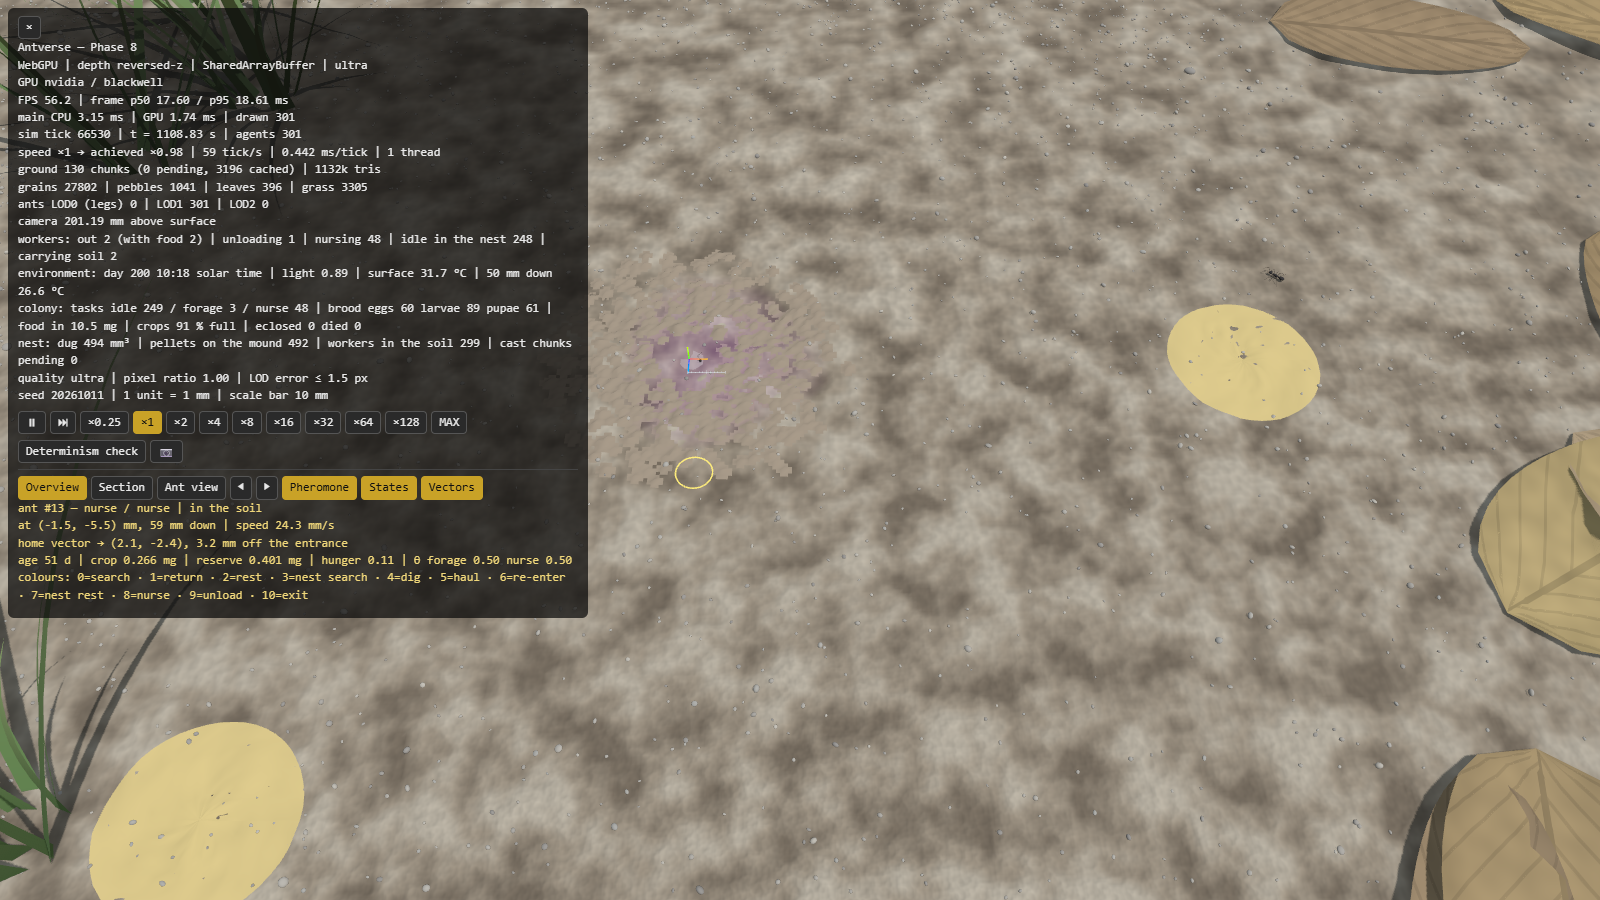
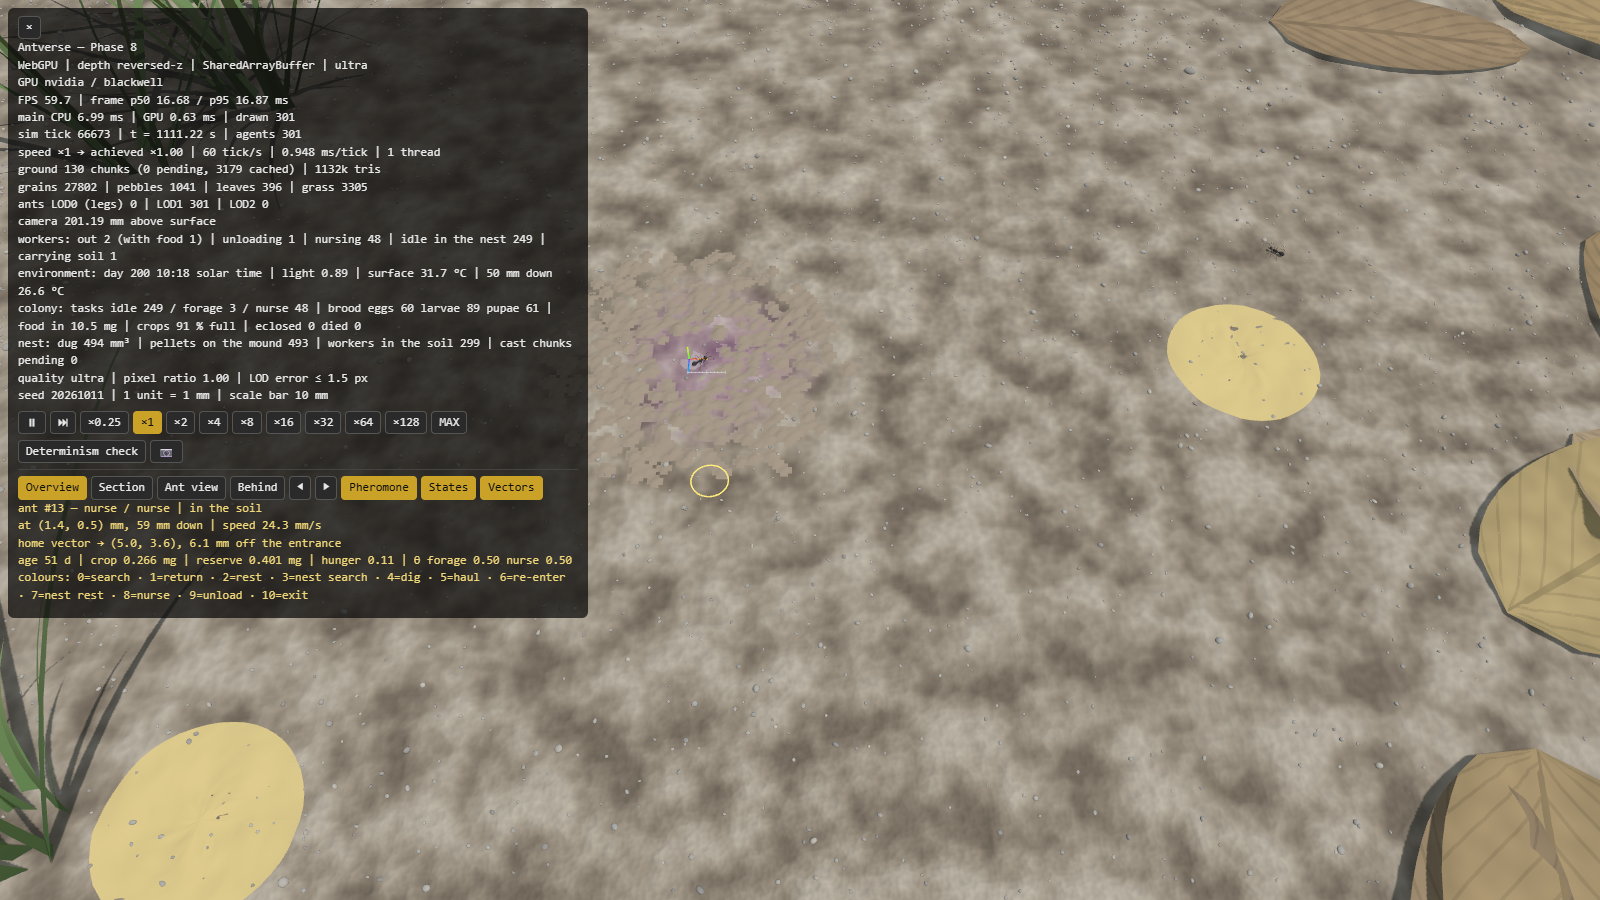
Ant view follows from behind in the soil; record Phase 8 decisions
In the nest a head camera is filled by nestmates and brood, so the ant view
now follows from 3 body lengths behind and 2 above while the ant is
underground, with the selection ring drawn over the crowd (B toggles).
Rain criterion: compared with a no-rain control (approved). Lock-in with
existing feeders noted under BIO-COL-006.

diff --git a/src/app/observer.ts b/src/app/observer.ts
@@ -6,7 +6,9 @@
  *   section   the ground taken away, the camera free to go below the surface:
  *             the nest, its cast, the brood and the ants in the soil;
  *   ant       the eyes of one ant: the camera rides on its head, looking
- *             where it looks — on the ground or on a tunnel wall.
+ *             where it looks — on the ground or on a tunnel wall. In the soil
+ *             it follows from behind and above instead (nestmates and brood
+ *             right in front would fill the view); B switches by hand.
  * One ant is observed at a time: click (tap) one, or N / P for the next /
  * previous; Esc lets it go. Debug views (toggle keys): H the pheromone
  * heatmap, C ants coloured by state, V the observed ant's home vector and
@@ -47,6 +49,8 @@ export class Observer {
   info: AntInfo | null = null;
   stateColors = false;
   vectors = true;
+  /** Ant view from behind: null follows the ant (behind in the soil, its eyes on the ground). */
+  behind: boolean | null = null;
   private readonly d: ObserverDeps;
   private readonly marks: ObserverMarks;
   private readonly buttons = new Map<string, HTMLButtonElement>();
@@ -66,6 +70,7 @@ export class Observer {
     b('overview', 'Overview', 'Orbit over the ground (1)', () => this.setMode('overview'));
     b('section', 'Section', 'Ground taken away: the nest and the ants in the soil (2)', () => this.setMode('section'));
     b('ant', 'Ant view', "Through the observed ant's eyes (3)", () => this.setMode('ant'));
+    b('behind', 'Behind', 'Ant view from behind the ant / through its eyes (B)', () => this.toggleBehind());
     b('prev', '◀', 'Previous ant (P)', () => this.step(-1));
     b('next', '▶', 'Next ant (N)', () => this.step(1));
     b('heat', 'Pheromone', 'Pheromone heatmap (H)', () => this.toggleHeat());
@@ -86,6 +91,7 @@ export class Observer {
   /** Whether the ground is cut away now. */
   private cut = false;
   private heat: boolean;
+  private wasChasing = false;
 
   setMode(m: ViewMode): void {
     const d = this.d;
@@ -139,14 +145,17 @@ export class Observer {
       void Promise.all(jobs).finally(() => { this.pending = false; });
     }
     const have = this.selected !== null && d.ants.poseOf(this.selected, this.pose);
+    const chase = this.chasing();
+    if (chase !== this.wasChasing) { this.wasChasing = chase; this.refresh(); }
     if (have && this.mode === 'ant') {
-      this.ride();
+      this.ride(chase);
       // In the soil, see the tunnel walls (the cast) rather than the underside of the ground.
-      const under = this.info?.underground ?? this.pose[1]! < 0;
+      const under = this.underground();
       if (under !== this.cut) { this.cut = under; d.setCutaway(under); }
     }
-    d.ants.hidden = this.mode === 'ant' && this.selected !== null ? this.selected : -1;
-    if (have && this.mode !== 'ant') this.marks.update(this.pose[0]!, this.pose[1]!, this.pose[2]!, this.info, this.vectors);
+    d.ants.hidden = this.mode === 'ant' && this.selected !== null && !chase ? this.selected : -1;
+    // From behind, the ring (drawn over everything) picks the ant out of the crowd.
+    if (have && (this.mode !== 'ant' || chase)) this.marks.update(this.pose[0]!, this.pose[1]!, this.pose[2]!, this.info, this.vectors && !chase);
     else this.marks.update(0, 0, 0, null, false);
     d.ants.colors = this.stateColors ? this.colors : null;
     d.hud.setPanel(this.panelText());
@@ -154,14 +163,33 @@ export class Observer {
 
   // ---------------------------------------------------------------------------
 
-  /** The camera on the ant's head: eye antViewEye body lengths ahead / up, looking antViewLook ahead. */
-  private ride(): void {
+  private underground(): boolean {
+    return this.info?.underground ?? this.pose[1]! < 0;
+  }
+
+  /** Whether the ant view is from behind now. */
+  private chasing(): boolean {
+    return this.mode === 'ant' && (this.behind ?? this.underground());
+  }
+
+  private toggleBehind(): void {
+    this.behind = !(this.behind ?? this.underground());
+    this.refresh();
+  }
+
+  /**
+   * The camera on the ant's head (eye antViewEye body lengths ahead / up, looking antViewLook
+   * ahead), or behind it (antViewBehind back / up, looking antViewBehindLook ahead of it).
+   */
+  private ride(chase: boolean): void {
     const d = this.d, r = d.cfg.render, L = d.cfg.ant.workerBodyLength;
+    const fov = chase ? this.baseFov : r.antViewFov;
+    if (d.camera.fov !== fov) { d.camera.fov = fov; d.camera.updateProjectionMatrix(); }
     const q = new THREE.Quaternion(this.pose[3]!, this.pose[4]!, this.pose[5]!, this.pose[6]!);
     const at = new THREE.Vector3(this.pose[0]!, this.pose[1]!, this.pose[2]!);
-    const [ahead, up] = r.antViewEye as readonly [number, number];
+    const [ahead, up] = (chase ? (r.antViewBehind as readonly number[]).map((v, i) => (i === 0 ? -v : v)) : r.antViewEye) as readonly [number, number];
     const eye = new THREE.Vector3(ahead! * L, up! * L, 0).applyQuaternion(q).add(at);
-    const look = new THREE.Vector3(r.antViewLook * L, 0, 0).applyQuaternion(q).add(at);
+    const look = new THREE.Vector3((chase ? r.antViewBehindLook : r.antViewLook) * L, 0, 0).applyQuaternion(q).add(at);
     const upv = new THREE.Vector3(0, 1, 0).applyQuaternion(q);
     d.camera.position.copy(eye);
     d.camera.up.copy(upv);
@@ -243,12 +271,13 @@ export class Observer {
     else if (k === 'h') this.toggleHeat();
     else if (k === 'c') this.toggleColors();
     else if (k === 'v') { this.vectors = !this.vectors; this.refresh(); }
+    else if (k === 'b') this.toggleBehind();
     else if (k === 'escape') this.select(null);
   }
 
   private refresh(): void {
     for (const [k, b] of this.buttons) {
-      const on = k === this.mode || (k === 'heat' && this.heat) || (k === 'colors' && this.stateColors) || (k === 'vectors' && this.vectors);
+      const on = k === this.mode || (k === 'behind' && this.chasing()) || (k === 'heat' && this.heat) || (k === 'colors' && this.stateColors) || (k === 'vectors' && this.vectors);
       b.classList.toggle('active', on);
     }
   }

diff --git a/src/config/params.ts b/src/config/params.ts
@@ -646,11 +646,15 @@ export const DEFAULT_PARAMS = {
      * length ahead of and above the mesosoma centre; the point looked at, body lengths ahead),
      * picking an ant on screen, the marks for the observed ant, and state colours (one rgb triple
      * per AgentState: search, return, rest, nest search, dig, haul, re-enter, nest rest, nurse,
-     * unload, exit).
+     * unload, exit). In the soil the ant view follows from behind instead (nestmates and brood
+     * right in front fill a head camera): body lengths behind and above, looking antViewBehindLook
+     * body lengths ahead of the ant, with the orbit camera's field of view.
      */
     antViewFov: p(100, 'deg', 'ENG-UI-002', { min: 10, max: 150 }),
     antViewEye: p([0.45, 0.18], 'x', 'ENG-UI-002'),
     antViewLook: p(4, 'x', 'ENG-UI-002', { min: 0.1 }),
+    antViewBehind: p([3, 2], 'x', 'ENG-UI-002'),
+    antViewBehindLook: p(1, 'x', 'ENG-UI-002', { min: 0 }),
     pickRadius: p(24, 'px', 'ENG-UI-002', { min: 1 }),
     inspectInterval: p(250, 'ms', 'ENG-UI-002', { min: 16 }),
     selectRing: p(1.2, 'x', 'ENG-UI-002', { min: 0.1 }),

diff --git a/scripts/browser-run.ts b/scripts/browser-run.ts
@@ -584,6 +584,8 @@ async function observeViews(cdp: Cdp, query: string | undefined): Promise<void> 
     await sleep(800);
     checks.nurseView = await cdp.eval<string>("document.querySelector('.hud-panel').textContent.split('\\n')[0]");
     await shot('04-ant-view-nest');
+    // In the soil the ant view follows from behind, with the ant itself drawn.
+    checks.nurseBehind = await cdp.eval<unknown>(`[document.querySelector('.hud-observe button[title^="Ant view from behind"]').classList.contains('active'), window.antverse.ants.hidden]`);
   }
   // 5. Back to the overview with the pheromone heatmap.
   await cdp.eval(`${o}.setMode('overview')`);

diff --git a/docs/ENGINEERING.md b/docs/ENGINEERING.md
@@ -224,7 +224,7 @@
 
 
 ### ENG-UI-002 観察の画面（Phase 8）
-- **値**: 視点は 3 つ（1 俯瞰、2 断面：地上を外しカメラを地下にも入れる、3 アリ視点：観察中の個体の頭（体長の 0.45 前・0.18 上）から、体の向きに 4 体長先を見る、視野 100°）。観察する個体は、画面で 24 px 以内の最も近い個体をクリック（タップ）するか、N / P で選ぶ。デバッグ表示は H（フェロモン）、C（状態ごとの色）、V（帰巣ベクトル・本当の巣口・覚えている餌場の線）。個体の詳細と全個体の状態は 250 ms ごとに作業スレッドに問い合わせる（写しを受け取るだけで、シミュレーションは変えない）
+- **値**: 視点は 3 つ（1 俯瞰、2 断面：地上を外しカメラを地下にも入れる、3 アリ視点：観察中の個体の頭（体長の 0.45 前・0.18 上）から、体の向きに 4 体長先を見る、視野 100°。土の中では、その個体の 3 体長後ろ・2 体長上から 1 体長先を見て、選択の輪を重ねる。B で手動で切り替え）。観察する個体は、画面で 24 px 以内の最も近い個体をクリック（タップ）するか、N / P で選ぶ。デバッグ表示は H（フェロモン）、C（状態ごとの色）、V（帰巣ベクトル・本当の巣口・覚えている餌場の線）。個体の詳細と全個体の状態は 250 ms ごとに作業スレッドに問い合わせる（写しを受け取るだけで、シミュレーションは変えない）
 - **理由**: 元の指示書の「観察モード・アリ視点・デバッグ表示」。アリ視点の体の向きは姿勢のクォータニオンそのものなので、地下の壁や天井の上でも、その個体が見ている向きになる。状態の色は 11 状態を見分けられる色にした（表示のための選択）。
 
 ### ENG-DEV-001 スマホ判定のしきい値
@@ -355,6 +355,6 @@
 - **理由**: シミュレーションは空中の雨粒を追わない（当たるかどうかだけを計算する）。表示は同じ降り方の割合で描くだけで、シミュレーションに影響しない。アリの尺度では雨はまばらな大きな粒の「事件」になる。
 
 ### ENG-EXP-005 環境の合格判定の手順
-- **値**: 開発に使っていないシード 7001〜の 10 コロニー（`field` プリセット: 300 匹、環境・衝突回避あり、06:00 開始）。(1) 昼夜：48 時間、地表に出ている採餌係の平均が、明るさ 0.2 以上の時は真っ暗な時の 5 倍以上（80% 以上のコロニー）。(2) 育房の温度：同じシードで育房を運ばない対照と比べ、2 日目の育房の好み（28 °C）からのずれが 30% 以上小さい（80% 以上。時刻ごとの深さは記録して報告する）。(3) 温度：夜明け前の 4 時から始め、平均 16 °C の涼しい日は 26 °C の日より採餌の始まりが 0.5 時間以上遅く、平均 32 °C の暑い日は 12〜16 時の採餌係が平年の日の 30% 以下（それぞれ 80% 以上）。(4) 雨：12:00〜13:00 に 10 mm/h。降り始めの 10 分後から雨の終わりまでの採餌係が、同じシードで雨を降らせない対照の同じ時間帯の 20% 以下、雨の 2 時間後までの最後の 1 時間で対照の 50% 以上（80% 以上。Phase 8 で対照と比べる形に変更を提案中。Phase 7 で使った「雨の前の 1 時間と比べる」形も併記する）。自由に動ける個体が水滴に踏み込んだ回数 0。(5) 動員（Phase 6 から移した基準、Phase 8 の最初に再判定）：開始 2 時間後に (−170, −90) に新しい餌場が現れ（ほかに餌はない）、最初に見つかってから 2 時間の利用（そ嚢を満たした回数）の平均が、動員あり（帰り道の道しるべ＋巣の中の誇示）でなし（どちらもなし）の 1.5 倍以上。シード 8001〜
+- **値**: 開発に使っていないシード 7001〜の 10 コロニー（`field` プリセット: 300 匹、環境・衝突回避あり、06:00 開始）。(1) 昼夜：48 時間、地表に出ている採餌係の平均が、明るさ 0.2 以上の時は真っ暗な時の 5 倍以上（80% 以上のコロニー）。(2) 育房の温度：同じシードで育房を運ばない対照と比べ、2 日目の育房の好み（28 °C）からのずれが 30% 以上小さい（80% 以上。時刻ごとの深さは記録して報告する）。(3) 温度：夜明け前の 4 時から始め、平均 16 °C の涼しい日は 26 °C の日より採餌の始まりが 0.5 時間以上遅く、平均 32 °C の暑い日は 12〜16 時の採餌係が平年の日の 30% 以下（それぞれ 80% 以上）。(4) 雨：12:00〜13:00 に 10 mm/h。降り始めの 10 分後から雨の終わりまでの採餌係が、同じシードで雨を降らせない対照の同じ時間帯の 20% 以下、雨の 2 時間後までの最後の 1 時間で対照の 50% 以上（80% 以上。Phase 8 の測り直しで、採餌係が 1 日の中で減っていくため雨の前と比べると雨と関係ない変化まで数えることが分かり、対照と比べる形に変えた〔2026-10-14 承認〕。Phase 7 で使った「雨の前の 1 時間と比べる」形も併記する）。自由に動ける個体が水滴に踏み込んだ回数 0。(5) 動員（Phase 6 から移した基準、Phase 8 の最初に再判定）：開始 2 時間後に (−170, −90) に新しい餌場が現れ（ほかに餌はない）、最初に見つかってから 2 時間の利用（そ嚢を満たした回数）の平均が、動員あり（帰り道の道しるべ＋巣の中の誇示）でなし（どちらもなし）の 1.5 倍以上。シード 8001〜
 - **理由**: 元の指示書の Phase 7「昼夜・雨・水滴がアリの行動に影響を与える」を、行動の数値で測る形にした。開発用シード（11〜13）で試した結果、(a) 取り込み量は需要で決まり涼しい日も変わらない（採餌係を増やして補う）ので温度の指標を採餌の時間帯に変え、(b) 2 日目には巣が深くなって育房が日中も好みに近い深さに留まり、朝夕の上下は小さくなったので、育房の基準は温度のずれに絞った。動員は Phase 6 の判断（推奨案 A）により、遠い新しい餌で測る。
 - **影響**: `scripts/experiment-environment.ts` が CSV を docs/reports/phase-7/ に書く。

diff --git a/docs/BIOLOGY.md b/docs/BIOLOGY.md
@@ -497,6 +497,7 @@
 - **内容**: *Formica fusca* では、餌を見つけた個体が餌から巣へ後腸の道しるべを引くが、道しるべそのものに仲間を呼ぶ働きはない。巣の中で仲間と向き合い、体を揺らす誇示と餌の口移しをすると、それで呼び起こされた個体だけが道しるべをたどって餌へ向かう（道しるべは向きの手がかり）。クロヤマアリでも、蜜（動かない餌）を見つけた採餌係は方向と距離を覚えて往復し、多くの仲間を素早く動員する（獲物では別の誇示で少数を呼ぶ）。
 - **出典**: Möglich & Hölldobler (1975) *J. Comp. Physiol.*（*F. fusca* の採餌と移住での通信と定位、二次資料による要約）; 鈴木紀雄ほか (1997) 滋賀大学教育学部紀要 自然科学 47: 47–58「クロヤマアリの採餌行動にみられる情報処理 (2) 餌の種類による情報伝達様式の相違」（要旨で確認、本文は未入手）
 - **確度**: 近縁種（*F. fusca*）・要旨のみ
+- **注記（Phase 8）**: このモデルでは、ほかに餌場があると、動員された個体が既にある餌場の道しるべに乗り、後から現れた餌場の利用は動員なしより少なくなる（シード 8001〜で × 0.69）。道しるべを使う *Lasius niger* でも知られる性質（Beckers et al. 1990）。クロヤマアリは個体の道の記憶が強く、実際はもっと切り替えが速いかもしれない（未確認）。
 - **使用箇所**: `colony.trailForRecruits`、colony.ts の give()（誇示による動員）、trail.ts
 
 ### ASM-COL-014 動員の起こりやすさ

diff --git a/docs/reports/phase-8.md b/docs/reports/phase-8.md
@@ -130,3 +130,10 @@ Phase 6 の除去実験で、同じ理由（自然な変化と区別できない
    - git 履歴の 28 MB の削除（force push が必要）
    - Phase 1 の地形の端の扱い
    - BIO-PHE-001/002 などの原典の確認
+
+## 6. 決定（2026-10-14、「進めて」で推奨案を採用）
+
+1. 雨の基準は「雨のない対照と比べる」形に変更（ENG-EXP-005）。Phase 7 の雨の基準はこれで合格（10/10）。
+2. ほかに餌場があるときの × 0.69 は、規則から出てきた性質として記録する（BIO-COL-006 の注記）。
+3. 巣の中のアリ視点は、後ろ上から追う形を既定にした（3 体長後ろ・2 体長上、選択の輪を重ねる。B または「Behind」で切り替え）。04 の画像はこの形で撮り直した。
+4. 次は、公開ページの更新 → 巣の形（*Formica* の縦坑と部屋）→ スカイラインの記憶・土の湿り気。
